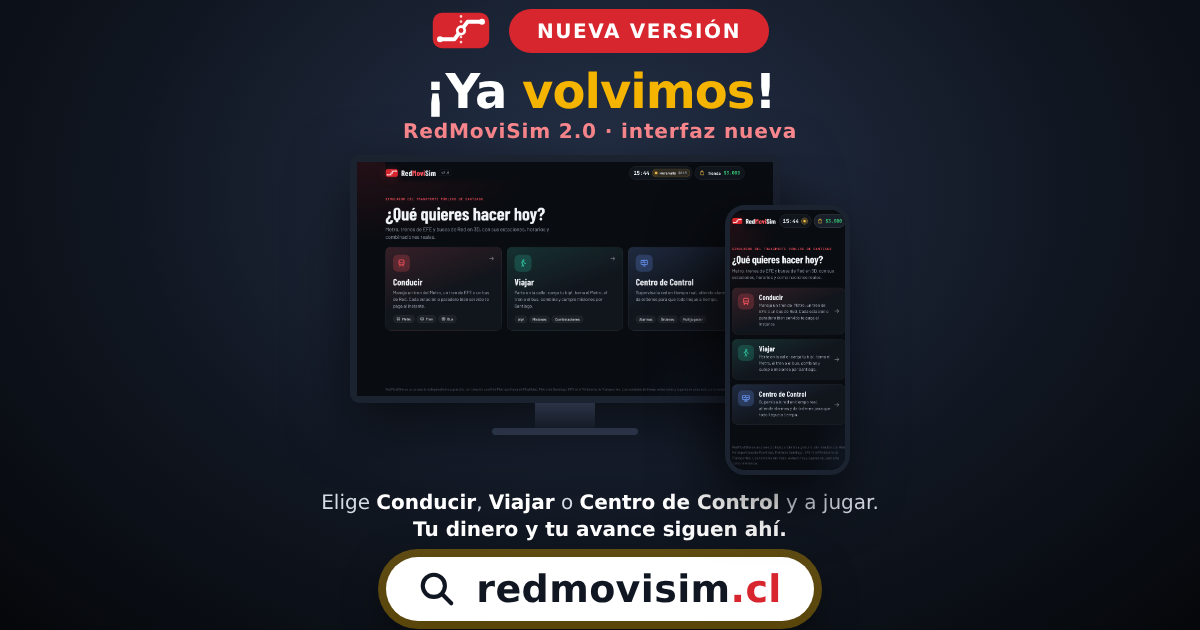
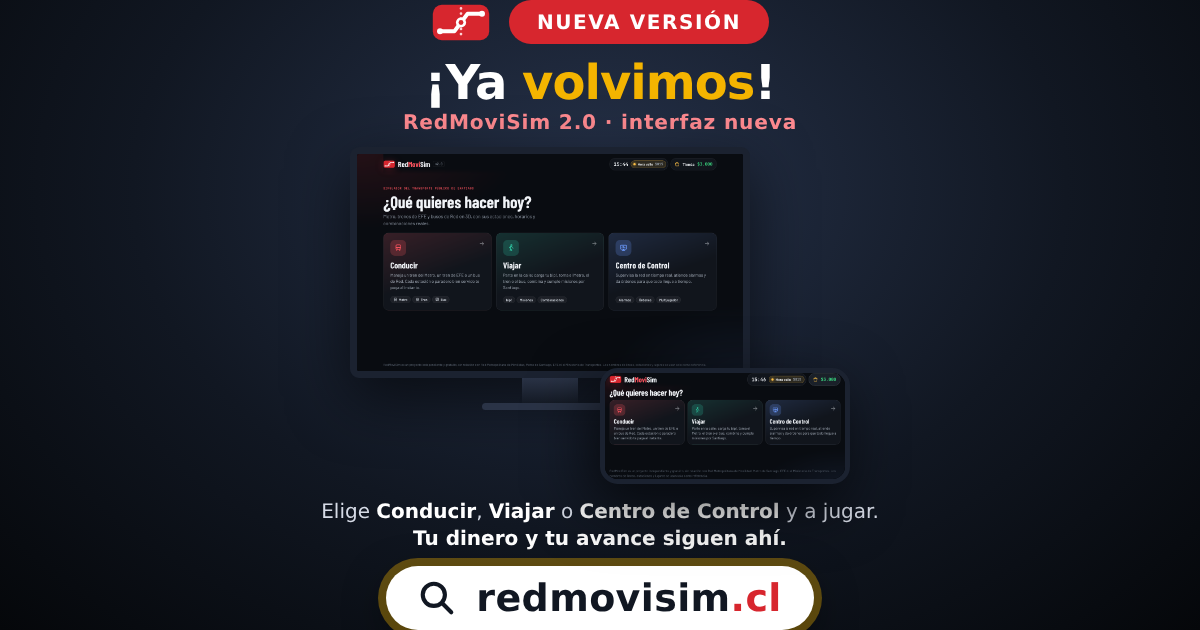
2.0.2 · Post «¡Ya volvimos!» con el celular en horizontal
Claude-Session: https://claude.ai/code/session_01XEKfgjC7BSoizeX9w7f1kp

Changed region(s): [[0.2467, 0.0, 0.74, 1.0]]

diff --git a/post-volvimos/plantilla.html b/post-volvimos/plantilla.html
@@ -10,14 +10,14 @@ body{font-family:"DejaVu Sans","Liberation Sans",Arial,sans-serif;color:#fff;
 h1{font-size:var(--h1);font-weight:900;line-height:1.02;letter-spacing:-.02em}
 h1 em{font-style:normal;color:#f4b400}
 h1 small{display:block;margin-top:.25em;font-size:.42em;font-weight:800;letter-spacing:.04em;color:#ff8a90}
-.devices{position:relative;width:var(--dw);height:calc(var(--dw) * .64)}
-.monitor{position:absolute;left:0;top:0;width:86%}
+.devices{position:relative;width:var(--dw);height:calc(var(--dw) * .7)}
+.monitor{position:absolute;left:0;top:0;width:80%}
 .monitor .scr{background:#000;border:calc(var(--dw) * .014) solid #1b2230;border-radius:calc(var(--dw) * .018);overflow:hidden;box-shadow:0 20px 60px rgba(0,0,0,.6)}
 .monitor img{display:block;width:100%}
 .monitor .neck{width:14%;height:calc(var(--dw) * .05);margin:0 auto;background:linear-gradient(#2a3346,#151b26)}
 .monitor .foot{width:34%;height:calc(var(--dw) * .014);margin:0 auto;border-radius:6px;background:#2a3346}
-.phone{position:absolute;right:0;bottom:0;width:25%;aspect-ratio:390/844;background:#000;border:calc(var(--dw) * .011) solid #1b2230;border-radius:calc(var(--dw) * .04);overflow:hidden;box-shadow:-10px 20px 60px rgba(0,0,0,.7)}
-.phone img{display:block;width:100%;height:100%;object-fit:cover;object-position:top}
+.phone{position:absolute;right:0;bottom:0;width:50%;aspect-ratio:844/390;background:#000;border:calc(var(--dw) * .011) solid #1b2230;border-radius:calc(var(--dw) * .035);overflow:hidden;box-shadow:-10px 20px 60px rgba(0,0,0,.7)}
+.phone img{display:block;width:100%;height:100%;object-fit:cover}
 .tag{position:absolute;font-weight:800;font-size:var(--tag);background:#111722;border:3px solid #f4b400;color:#f4b400;padding:6px 18px;border-radius:999px;letter-spacing:.06em}
 .tag.pc{left:3%;top:4%}.tag.cel{right:1%;bottom:80%}
 .bar{display:flex;align-items:center;gap:20px;background:#fff;color:#111722;border-radius:999px;padding:var(--bpad);box-shadow:0 0 0 8px rgba(244,180,0,.35),0 14px 40px rgba(0,0,0,.5)}

diff --git a/post-volvimos/generar.js b/post-volvimos/generar.js
@@ -2,8 +2,8 @@ const {chromium}=require('playwright');const path=require('path');
 (async()=>{const b=await chromium.launch();
 const f='file://'+path.resolve(process.argv[2]);
 const sizes=[
- ['post-cuadrado.png',1080,1080,{gap:'26px',logo:'110px',badge:'30px',h1:'78px',dw:'860px',tag:'24px',url:'58px',bpad:'18px 46px',p:'30px'}],
- ['historia.png',1080,1920,{gap:'72px',logo:'170px',badge:'40px',h1:'112px',dw:'960px',tag:'30px',url:'78px',bpad:'26px 60px',p:'36px'}],
+ ['post-cuadrado.png',1080,1080,{gap:'20px',logo:'96px',badge:'28px',h1:'72px',dw:'740px',tag:'24px',url:'58px',bpad:'18px 46px',p:'30px'}],
+ ['historia.png',1080,1920,{gap:'72px',logo:'170px',badge:'40px',h1:'112px',dw:'960px',tag:'30px',url:'78px',bpad:'26px 60px',p:'32px'}],
  ['portada-horizontal.png',1200,630,{gap:'14px',logo:'60px',badge:'20px',h1:'48px',dw:'500px',tag:'15px',url:'38px',bpad:'10px 32px',p:'20px'}]];
 for(const [n,w,h,v] of sizes){const p=await b.newPage({viewport:{width:w,height:h},deviceScaleFactor:1});
 await p.goto(f);await p.evaluate(([w,h,v])=>{const s=document.documentElement.style;s.setProperty('--w',w+'px');s.setProperty('--h',h+'px');for(const k in v)s.setProperty('--'+k,v[k]);},[w,h,v]);

diff --git a/index.html b/index.html
@@ -93,7 +93,7 @@
       <div class="home-brand">
         <img class="home-logo" src="logo.svg" alt="">
         <h1>Red<span>Movi</span>Sim</h1>
-        <span class="start-ver">v2.0.1</span>
+        <span class="start-ver">v2.0.2</span>
       </div>
       <div class="home-bar-tools">
         <button class="home-clock" id="clockNow" type="button" aria-live="polite" title="Ver las tarifas según el horario">

diff --git a/sw.js b/sw.js
@@ -14,7 +14,7 @@
    sin conexión.
    ========================================================================== */
 
-const CACHE = "metrosim-v2.0.1";
+const CACHE = "metrosim-v2.0.2";
 const CDN = ["cdn.jsdelivr.net", "unpkg.com"];
 
 /** Lo mínimo para que la portada abra sin conexión aunque no se haya jugado. */

diff --git a/js/config.js b/js/config.js
@@ -26,7 +26,7 @@
    y curva de demanda horaria de un día real de Santiago.
    ========================================================================== */
 
-export const VERSION = "2.0.1";
+export const VERSION = "2.0.2";
 
 /* ---------- Colores oficiales de las líneas ---------- */
 export const LINE_COLORS = {

diff --git a/CLAUDE.md b/CLAUDE.md
@@ -15,3 +15,8 @@ La versión de red del multijugador (`NET_LEVEL`) es otra cosa: solo cambia si c
 ## Dónde subir los cambios
 **Siempre se suben directo a `main`** (`git push origin HEAD:main`), aunque la sesión indique otra rama de trabajo.
 Antes de subir: `git fetch origin main` y, si `main` avanzó, rebasar encima (nunca forzar el push).
+
+## Imágenes para redes sociales (`post-*/`)
+**Cuando una imagen muestra un celular, siempre va en horizontal** (captura a 844×390 y marco acostado,
+`aspect-ratio: 844/390`), nunca en vertical. Antes de subir, revisar las tres medidas (cuadrado, historia y horizontal)
+para que nada se corte ni quede una palabra sola en una línea.

diff --git a/README.md b/README.md
@@ -144,6 +144,7 @@ RedMoviSim estrena una interfaz hecha desde cero: identidad propia (ya no la del
 - Fin de la mantención (`js/mantencion.js`, `ACTIVA = false`). Lo hecho mientras tanto quedó en las 1.20.5 a 1.20.8.
 - **2.0.1 · Imágenes del post «¡Ya volvimos! · RedMoviSim 2.0»** (`post-volvimos/`): post cuadrado, historia y
   portada horizontal con capturas reales de la portada nueva en PC y celular. Se generan con `node generar.js plantilla.html`.
+- **2.0.2 · Post «¡Ya volvimos!» con el celular en horizontal** (`post-volvimos/`).
 
 ## Versión 1.20 · La calle del bus usa todo lo del Metro
 
